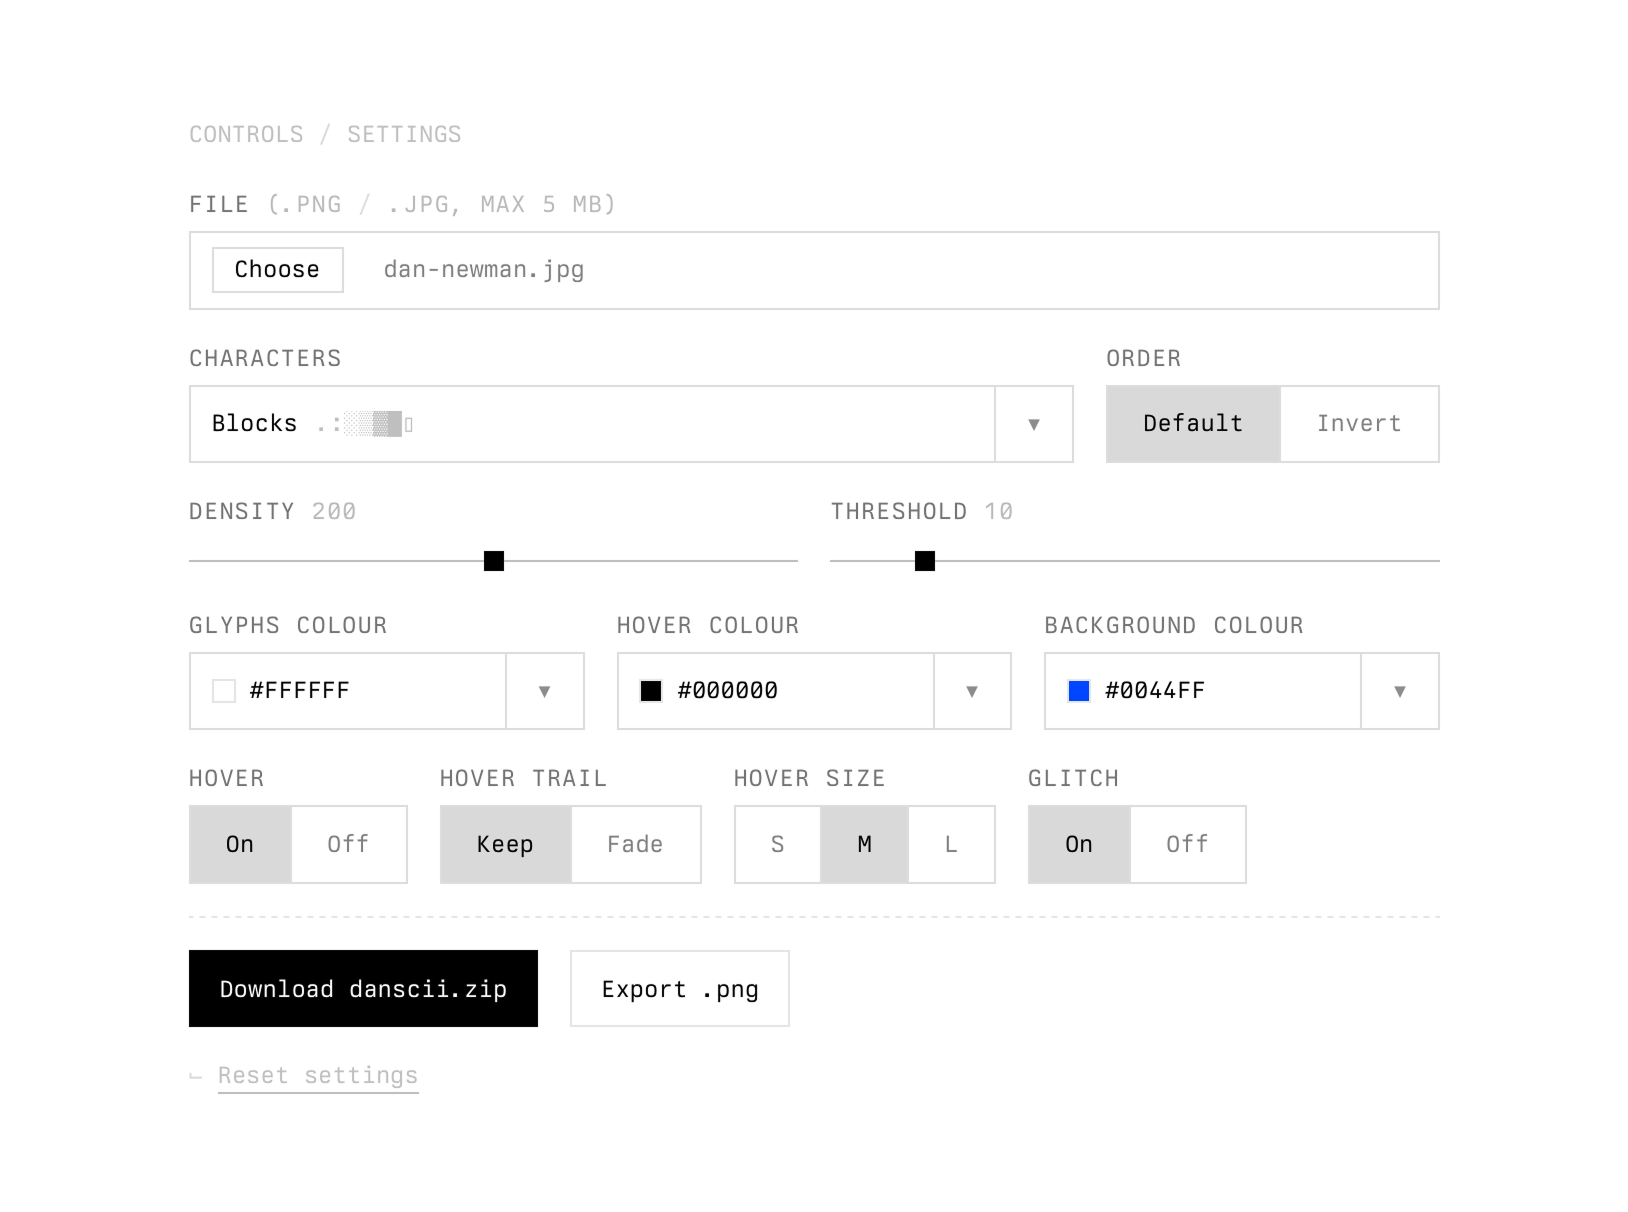
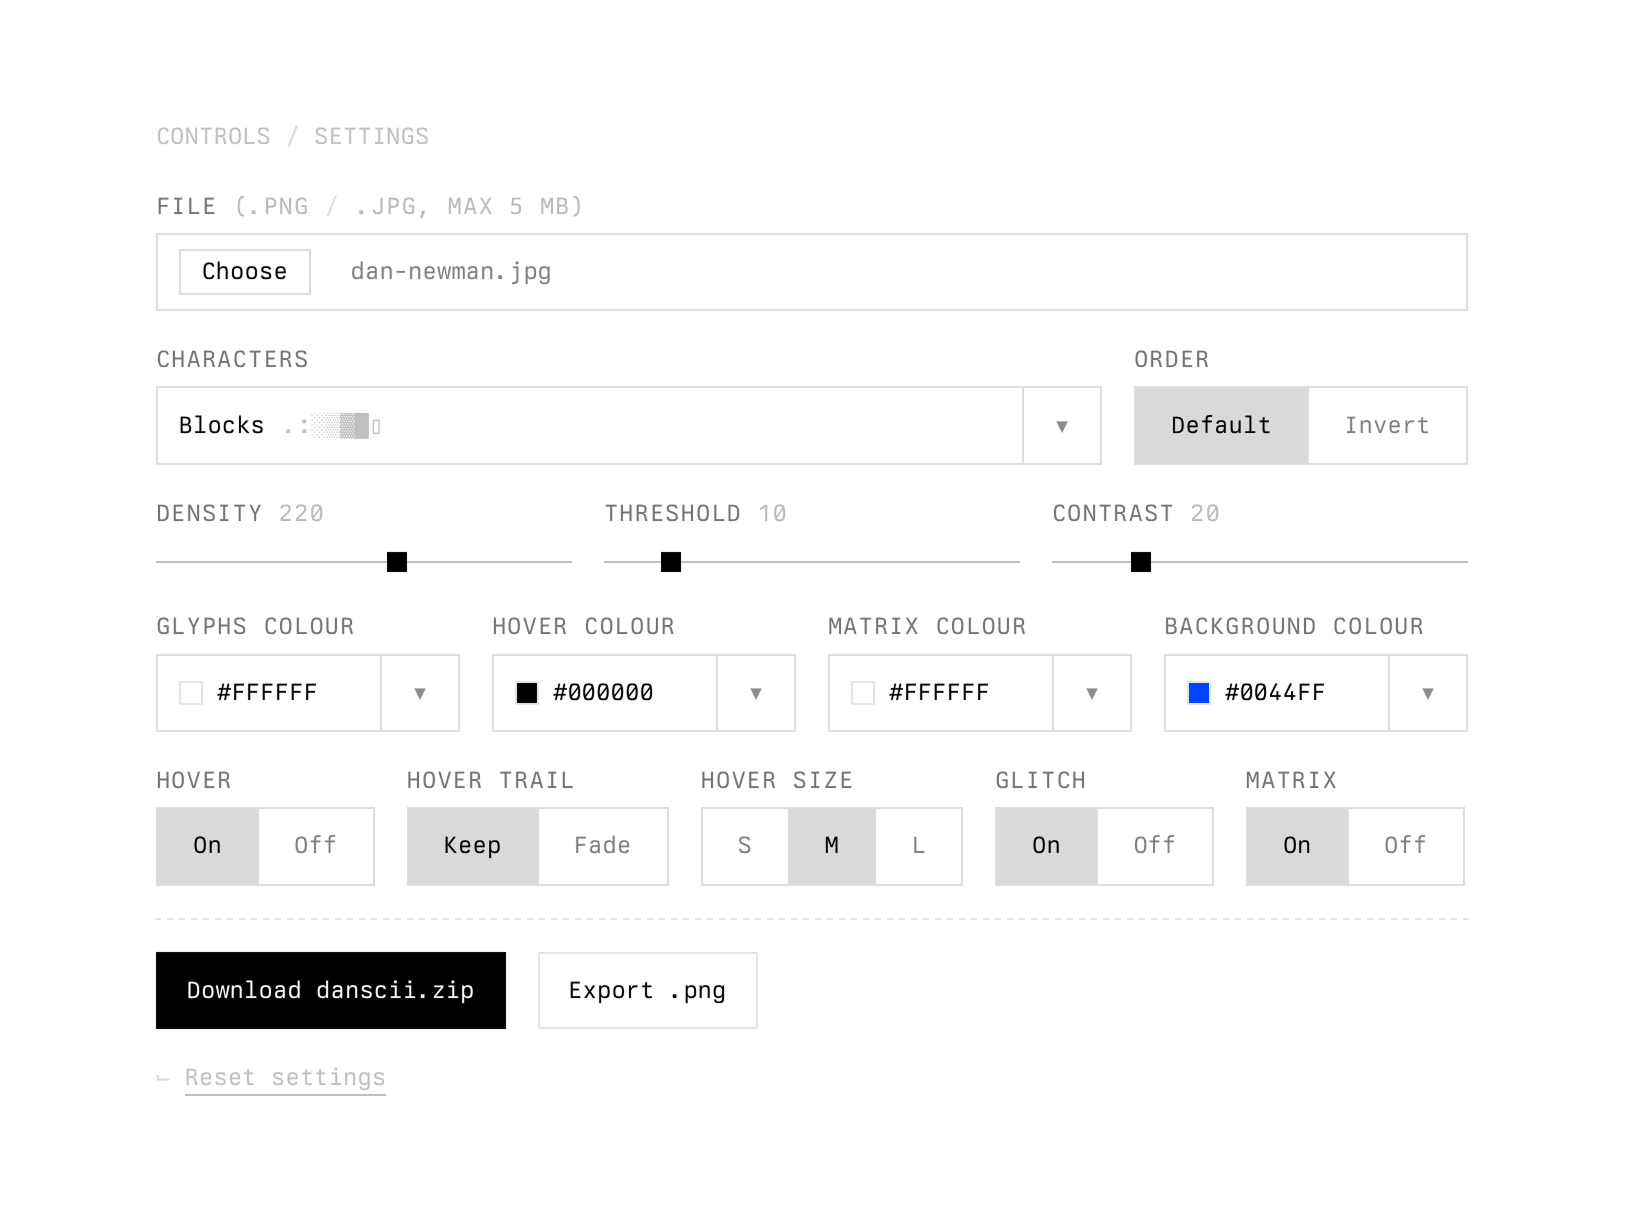
feat: lab update

diff --git a/js/gallery.js b/js/gallery.js
@@ -2653,7 +2653,7 @@ document.addEventListener("DOMContentLoaded", function () {
 
 			// Calculate how many items fit within a given column budget (maxColumns).
 			// Graphics dividers and title rows are included in the slice but do not consume column budget.
-			// Used to cap initial display (2–3 rows) and "Load more" batches on desktop (separate larger budget per click below)
+			// Used to cap initial display (2–4 rows) and "Load more" batches on desktop (separate larger budget per click below)
 			function calculateDisplayCount(items, maxColumns) {
 				let totalColumns = 0;
 				let count = 0;
@@ -2732,9 +2732,9 @@ document.addEventListener("DOMContentLoaded", function () {
 			const isMobile = window.matchMedia("(max-width: 1080px)").matches;
 
 			// Initial display:
-			// - Desktop: max 2 rows (20 columns); Lab shows 3 rows (30 columns)
+			// - Desktop: max 2 rows (20 columns); Lab shows 4 rows (40 columns)
 			// - Mobile: max 4 content items; Lab shows 5 (+ graphics dividers in the same slice)
-			const initialRowColumns = sectionType === "experiments" ? 30 : 20;
+			const initialRowColumns = sectionType === "experiments" ? 40 : 20;
 			const initialMobileItems = sectionType === "experiments" ? 5 : 4;
 			const rawInitialCount = isMobile
 				? countMobileBatchItems(allItems, initialMobileItems)
